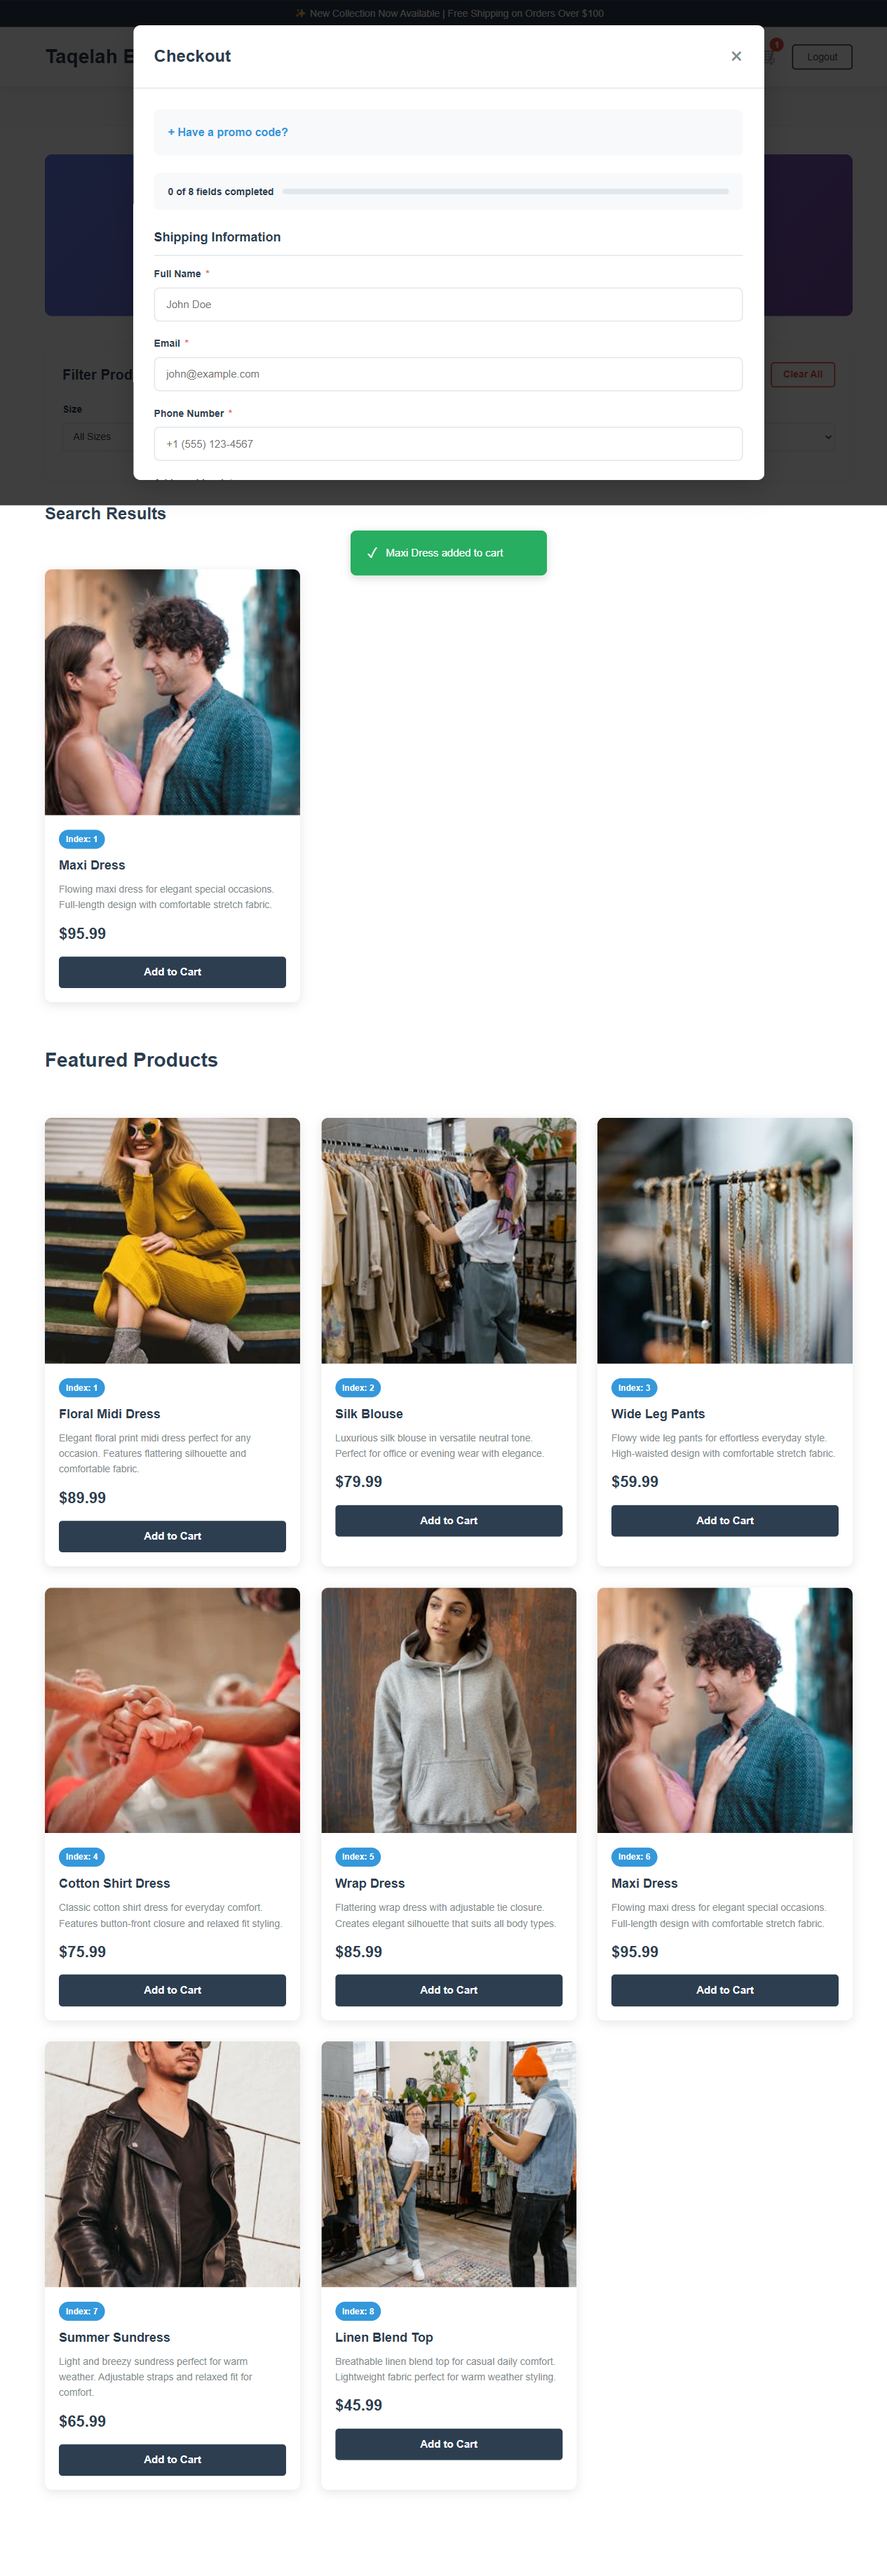
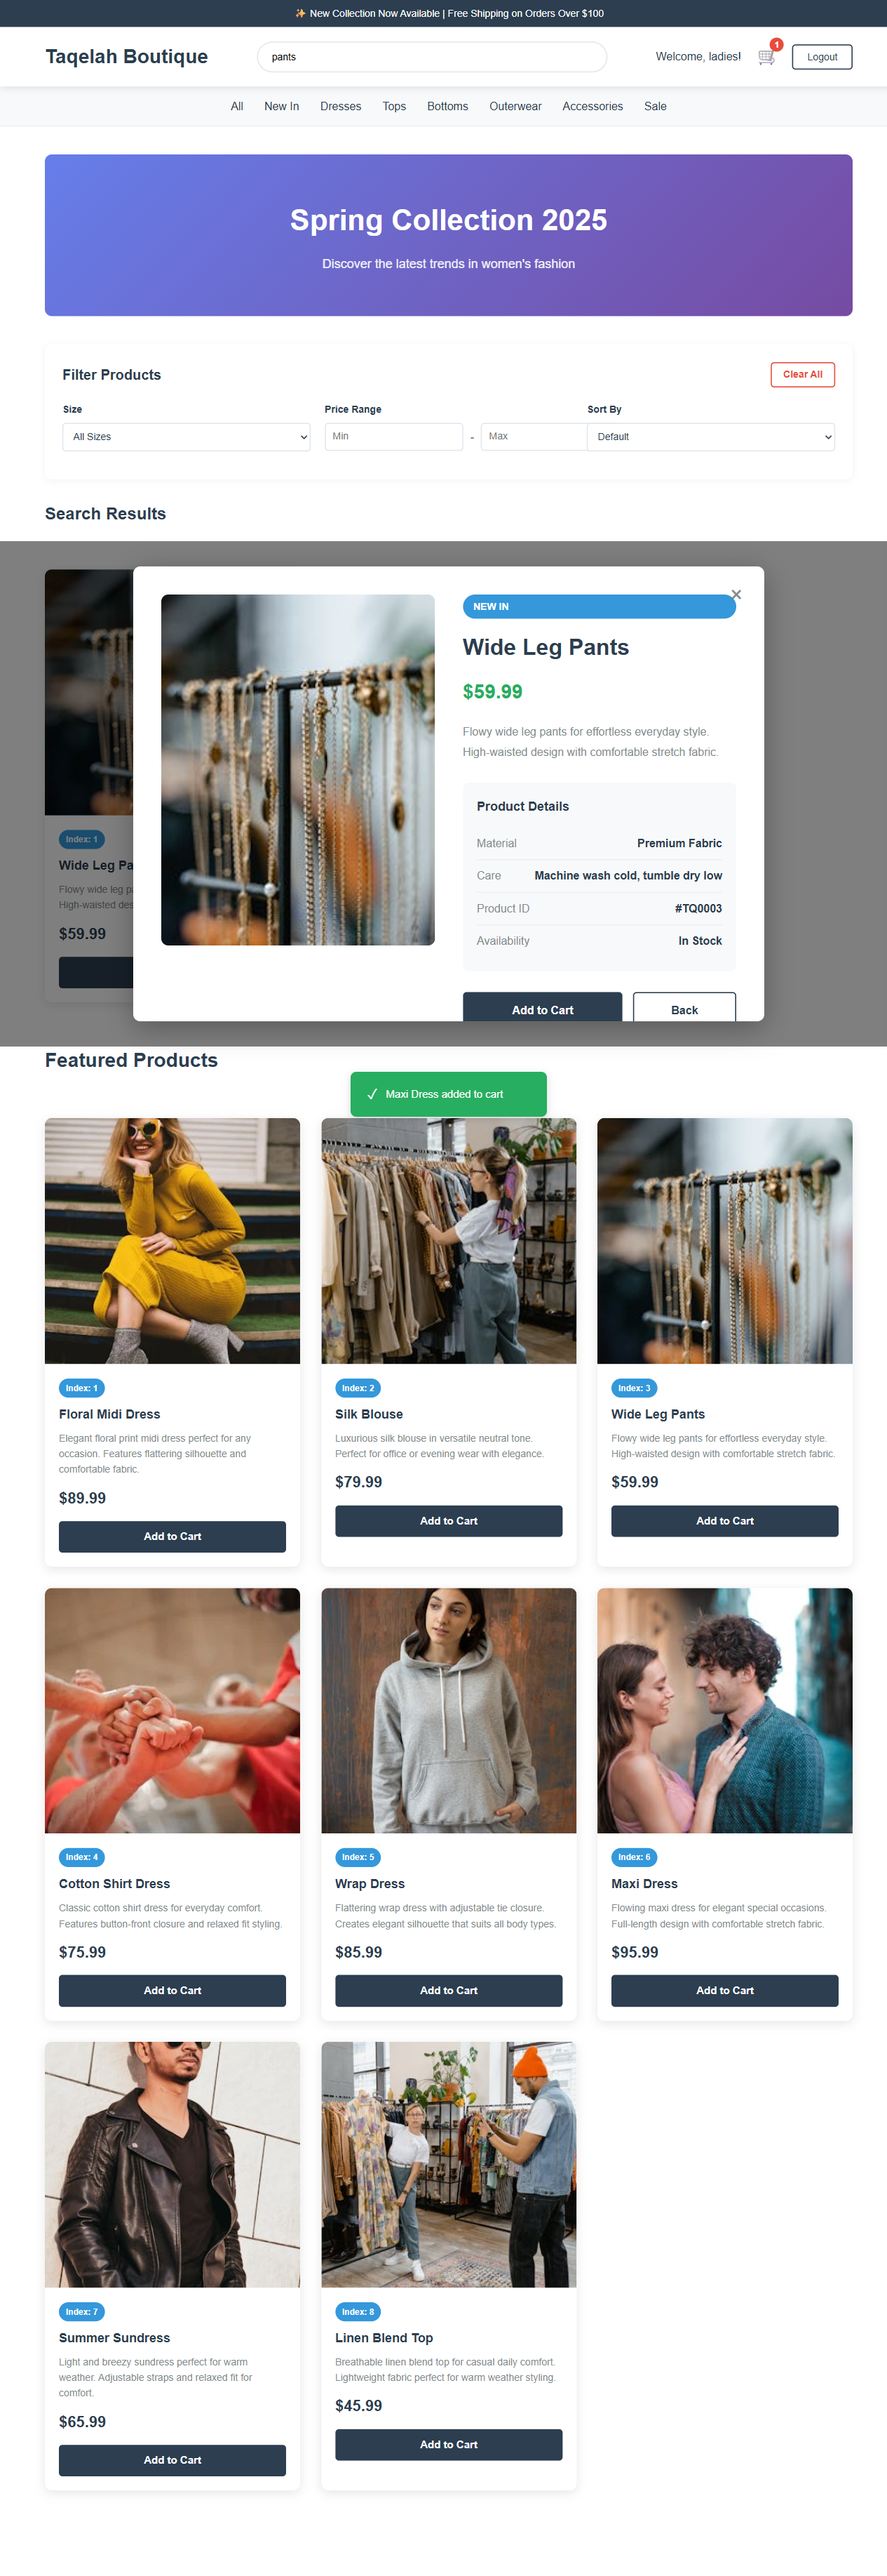
added POM and another test case for product details view

diff --git a/tests/taqelah-addtocart.spec.ts b/tests/taqelah-addtocart.spec.ts
@@ -1,4 +1,7 @@
 import { test, expect } from '@playwright/test';
+import { ShopPage } from './pages/ShopPage';
+import { CartPage } from './pages/CartPage';
+import { ProductDetailsPage } from './pages/ProductDetailsPage';
 
 test.use({ storageState: '.auth/taqelah-user.json' });
 
@@ -11,30 +14,48 @@ test.describe('Desktop Shopping Experience', () => {
     await expect(page.getByText('Spring Collection 2025')).toBeVisible();
   });
 
-  test('User can add first item to cart and proceed to checkout form', async ({ page }) => {
-    await page.getByTestId('search-input').fill('maxi dress');
+  test('User can add first item to cart and proceed to checkout form on desktop view', async ({ page }) => {
+    const shopPage = new ShopPage(page);
+    const cartPage = new CartPage(page);
 
-    const searchGrid = page.getByTestId('search-grid');
-    await expect(searchGrid).toBeVisible();
-    await searchGrid.scrollIntoViewIfNeeded();
-    await expect(searchGrid.getByRole('img', { name: 'Maxi Dress' })).toBeVisible();
+    // Search for product
+    await shopPage.searchProduct('maxi dress');
+
+    // Verify product is visible
+    await expect(shopPage.searchGrid).toBeVisible();
+    await shopPage.searchGrid.scrollIntoViewIfNeeded();
+    await expect(shopPage.searchGrid.getByRole('img', { name: 'Maxi Dress' })).toBeVisible();
     
-    await searchGrid.getByRole('button', { name: 'Add to Cart' }).click();
+    // Add to cart
+    await shopPage.searchGrid.getByRole('button', { name: 'Add to Cart' }).click();
 
-    await page.getByTestId('cart-icon').scrollIntoViewIfNeeded();
-    await page.getByTestId('cart-icon').click();
+    // Navigate to cart
+    await shopPage.cartIcon.scrollIntoViewIfNeeded();
+    await shopPage.openCart();
 
+    // Verify item in cart
     const cartItems = page.getByTestId('cart-items');
     await expect(cartItems).toBeVisible();
     await expect(cartItems.getByText('Maxi Dress')).toBeVisible();
 
-    await page.getByTestId('checkout-button').click();
+    // Proceed to checkout
+    await cartPage.checkoutButton.click();
     await expect(page.getByTestId('checkout-form')).toBeVisible();
+
+    // Close checkout form to return to search results
+    await cartPage.closeCheckoutForm();
+
+    // Search for another product and view product details
+    await shopPage.searchProduct('pants');
+    await shopPage.searchGrid.scrollIntoViewIfNeeded();
+    await expect(shopPage.searchGrid.getByRole('img', { name: 'Wide Leg Pants' })).toBeVisible();
+    await shopPage.searchGrid.getByRole('img', { name: 'Wide Leg Pants' }).click();
+    const productDetailsPage = new ProductDetailsPage(page);
+    await productDetailsPage.expectProductDetailsToBeVisible();
 
     // Take full-page screenshot for visual verification of desktop layout
     await page.screenshot({ path: 'desktop-checkout-view.png', fullPage: true });
   });
-
 });
 
 // Mobile tests - skip on desktop
@@ -47,30 +68,46 @@ test.describe('Mobile Shopping Experience', () => {
   });
 
   test('User can add first item to cart and proceed to checkout form on mobile view', async ({ page }) => {
-    // Verify search input is visible
-    await expect(page.getByTestId('search-input')).toBeVisible();
-    await page.getByTestId('search-input').fill('maxi dress');
+    const shopPage = new ShopPage(page);
+    const cartPage = new CartPage(page);
 
-    const searchGrid = page.getByTestId('search-grid');
-    await expect(searchGrid).toBeVisible();
-    await searchGrid.scrollIntoViewIfNeeded();
-    await expect(searchGrid.getByRole('img', { name: 'Maxi Dress' })).toBeVisible();
+    // Verify search input is visible
+    await expect(shopPage.searchInput).toBeVisible();
     
-    // Use click for mobile interaction (works on all devices via actionability checks)
-    await searchGrid.getByRole('button', { name: 'Add to Cart' }).click();
+    // Search for product
+    await shopPage.searchProduct('maxi dress');
+
+    // Verify product is visible
+    await expect(shopPage.searchGrid).toBeVisible();
+    await shopPage.searchGrid.scrollIntoViewIfNeeded();
+    await expect(shopPage.searchGrid.getByRole('img', { name: 'Maxi Dress' })).toBeVisible();
+    
+    // Add to cart
+    await shopPage.searchGrid.getByRole('button', { name: 'Add to Cart' }).click();
 
     // Navigate to cart
-    const cartIcon = page.getByTestId('cart-icon');
-    await cartIcon.scrollIntoViewIfNeeded();
-    await cartIcon.click();
+    await shopPage.cartIcon.scrollIntoViewIfNeeded();
+    await shopPage.openCart();
 
+    // Verify item in cart
     const cartItems = page.getByTestId('cart-items');
     await expect(cartItems).toBeVisible();
     await expect(cartItems.getByText('Maxi Dress')).toBeVisible();
 
     // Proceed to checkout
-    await page.getByTestId('checkout-button').click();
+    await cartPage.checkoutButton.click();
     await expect(page.getByTestId('checkout-form')).toBeVisible();
+
+    // Close checkout form to return to search results
+    await cartPage.closeCheckoutForm();
+
+    // Search for another product and view product details
+    await shopPage.searchProduct('pants');
+    await shopPage.searchGrid.scrollIntoViewIfNeeded();
+    await expect(shopPage.searchGrid.getByRole('img', { name: 'Wide Leg Pants' })).toBeVisible();
+    await shopPage.searchGrid.getByRole('img', { name: 'Wide Leg Pants' }).click();
+    const productDetailsPage = new ProductDetailsPage(page);
+    await productDetailsPage.expectProductDetailsToBeVisible();
 
     // Take full-page screenshot for visual verification of mobile layout
     await page.screenshot({ path: 'mobile-checkout-view.png', fullPage: true });

diff --git a/tests/taqelah-login.spec.ts b/tests/taqelah-login.spec.ts
@@ -1,4 +1,5 @@
 import { test, expect } from '@playwright/test';
+import { LoginPage } from './pages/LoginPage';
 
 const testData = [
   { username: 'ladies', password: 'ladies_GO' },
@@ -14,33 +15,46 @@ test.describe('Taqelah login', () => {
 
   testData.forEach(({ username, password }) => {
     test(`user can login to Taqelah Boutique with ${username} account`, async ({ page }) => {
-      await page.getByTestId('username-input').fill(username);
-      await page.getByTestId('password-input').fill(password);
-      await page.getByTestId('login-button').click();
+      const loginPage = new LoginPage(page);
+
+      // Perform login
+      await loginPage.login(username, password);
+
+      // Verify successful login
       await expect(page.getByText('Spring Collection 2025')).toBeVisible();
-      await expect(page.getByTestId('logout-button')).toBeVisible();
-      await page.getByTestId('logout-button').click();
+      await expect(loginPage.logoutButton).toBeVisible();
+
+      // Logout
+      await loginPage.logoutButton.click();
       await expect(page.locator('#loginPage')).toBeVisible();
     });
   });
 
   test('user cannot login with username less than 6 characters', async ({ page }) => {
-    await page.getByTestId('username-input').fill('test');
-    await page.getByTestId('password-input').fill('ladies_GO');
-    await page.getByTestId('login-button').click();
+    const loginPage = new LoginPage(page);
+
+    // Try to login with invalid username
+    await loginPage.usernameInput.fill('test');
+    await loginPage.passwordInput.fill('ladies_GO');
+    await loginPage.loginButton.click();
+
     // Verify error message appears
     await expect(page.locator('text=Username must be exactly 6 letters')).toBeVisible();
     // Verify logout button is not visible (login failed)
-    await expect(page.getByTestId('logout-button')).not.toBeVisible();
+    await expect(loginPage.logoutButton).not.toBeVisible();
   });
 
   test('user cannot login with invalid password', async ({ page }) => {
-    await page.getByTestId('username-input').fill('ladies');
-    await page.getByTestId('password-input').fill('wrongpassword');
-    await page.getByTestId('login-button').click();
+    const loginPage = new LoginPage(page);
+
+    // Try to login with invalid password
+    await loginPage.usernameInput.fill('ladies');
+    await loginPage.passwordInput.fill('wrongpassword');
+    await loginPage.loginButton.click();
+
     // Verify error message appears
     await expect(page.locator('text=Password must be username_GO')).toBeVisible();
     // Verify logout button is not visible (login failed)
-    await expect(page.getByTestId('logout-button')).not.toBeVisible();
+    await expect(loginPage.logoutButton).not.toBeVisible();
   });
 });

diff --git a/tests/pages/ShopPage.ts b/tests/pages/ShopPage.ts
@@ -1,0 +1,34 @@
+import { test, expect, Page, Locator } from '@playwright/test';
+
+export class ShopPage {
+  readonly page: Page;
+  readonly searchInput: Locator;
+  readonly searchGrid: Locator;
+  readonly cartIcon: Locator;
+  readonly productDetailsAddToCart: Locator;
+
+  constructor(page: Page) {
+    this.page = page;
+    this.searchInput = page.getByTestId('search-input');
+    this.searchGrid = page.getByTestId('search-grid');
+    this.cartIcon = page.getByTestId('cart-icon');
+    this.productDetailsAddToCart = page.getByTestId('product-details-add-to-cart');
+  }
+
+  async searchProduct(term: string) {
+    await this.searchInput.click();
+    await this.searchInput.fill(term);
+  }
+
+  async clickProduct(productTestId: string) {
+    await this.searchGrid.getByTestId(productTestId).click();
+  }
+
+  async addToCart() {
+    await this.productDetailsAddToCart.click();
+  }
+
+  async openCart() {
+    await this.cartIcon.click();
+  }
+}

diff --git a/tests/pages/ProductDetailsPage.ts b/tests/pages/ProductDetailsPage.ts
@@ -1,0 +1,24 @@
+import { Page, Locator, expect } from '@playwright/test';
+
+export class ProductDetailsPage {
+  readonly page: Page;
+  readonly productName: Locator;
+  readonly productPrice: Locator;
+  readonly productDescription: Locator;
+  readonly addToCartButton: Locator;
+
+  constructor(page: Page) {
+    this.page = page;
+    this.productName = page.getByTestId('product-details-title');
+    this.productPrice = page.getByTestId('product-details-price');
+    this.productDescription = page.getByTestId('product-details-description');
+    this.addToCartButton = page.getByTestId('product-details-add-to-cart');
+  }
+
+  async expectProductDetailsToBeVisible() {
+    await expect(this.productName).toBeVisible();
+    await expect(this.productPrice).toBeVisible();
+    await expect(this.productDescription).toBeVisible();
+    await expect(this.addToCartButton).toBeVisible();
+  }
+}

diff --git a/tests/pages/CartPage.ts b/tests/pages/CartPage.ts
@@ -1,0 +1,27 @@
+import { test, expect, Page, Locator } from '@playwright/test';
+
+export class CartPage {
+  readonly page: Page;
+  readonly cartHeading: Locator;
+  readonly checkoutButton: Locator;
+  readonly closeCheckoutButton: Locator;
+
+  constructor(page: Page) {
+    this.page = page;
+    this.cartHeading = page.getByRole('heading', { name: 'Shopping Cart' });
+    this.checkoutButton = page.getByTestId('checkout-button');
+    this.closeCheckoutButton = page.getByTestId('close-checkout-button');
+  }
+
+  cartItemName(productId: string): Locator {
+    return this.page.getByTestId(`cart-item-name-${productId}`);
+  }
+
+  cartItemPrice(productId: string): Locator {
+    return this.page.getByTestId(`cart-item-price-${productId}`);
+  }
+
+  async closeCheckoutForm() {
+    await this.closeCheckoutButton.click();
+  }
+}

diff --git a/tests/pages/LoginPage.ts b/tests/pages/LoginPage.ts
@@ -1,0 +1,27 @@
+import { test, expect, Page, Locator } from '@playwright/test';
+
+export class LoginPage {
+  readonly page: Page;
+  readonly usernameInput: Locator;
+  readonly passwordInput: Locator;
+  readonly loginButton: Locator;
+  readonly logoutButton: Locator;
+
+  constructor(page: Page) {
+    this.page = page;
+    this.usernameInput = page.getByTestId('username-input');
+    this.passwordInput = page.getByTestId('password-input');
+    this.loginButton = page.getByTestId('login-button');
+    this.logoutButton = page.getByTestId('logout-button');
+  }
+
+  async goto() {
+    await this.page.goto('/taqelah-demo-site.html');
+  }
+
+  async login(username: string, password: string) {
+    await this.usernameInput.fill(username);
+    await this.passwordInput.fill(password);
+    await this.loginButton.click();
+  }
+}

diff --git a/tests/pages/index.ts b/tests/pages/index.ts
@@ -1,0 +1,4 @@
+export { LoginPage } from './LoginPage';
+export { ShopPage } from './ShopPage';
+export { CartPage } from './CartPage';
+export { ProductDetailsPage } from './ProductDetailsPage';
